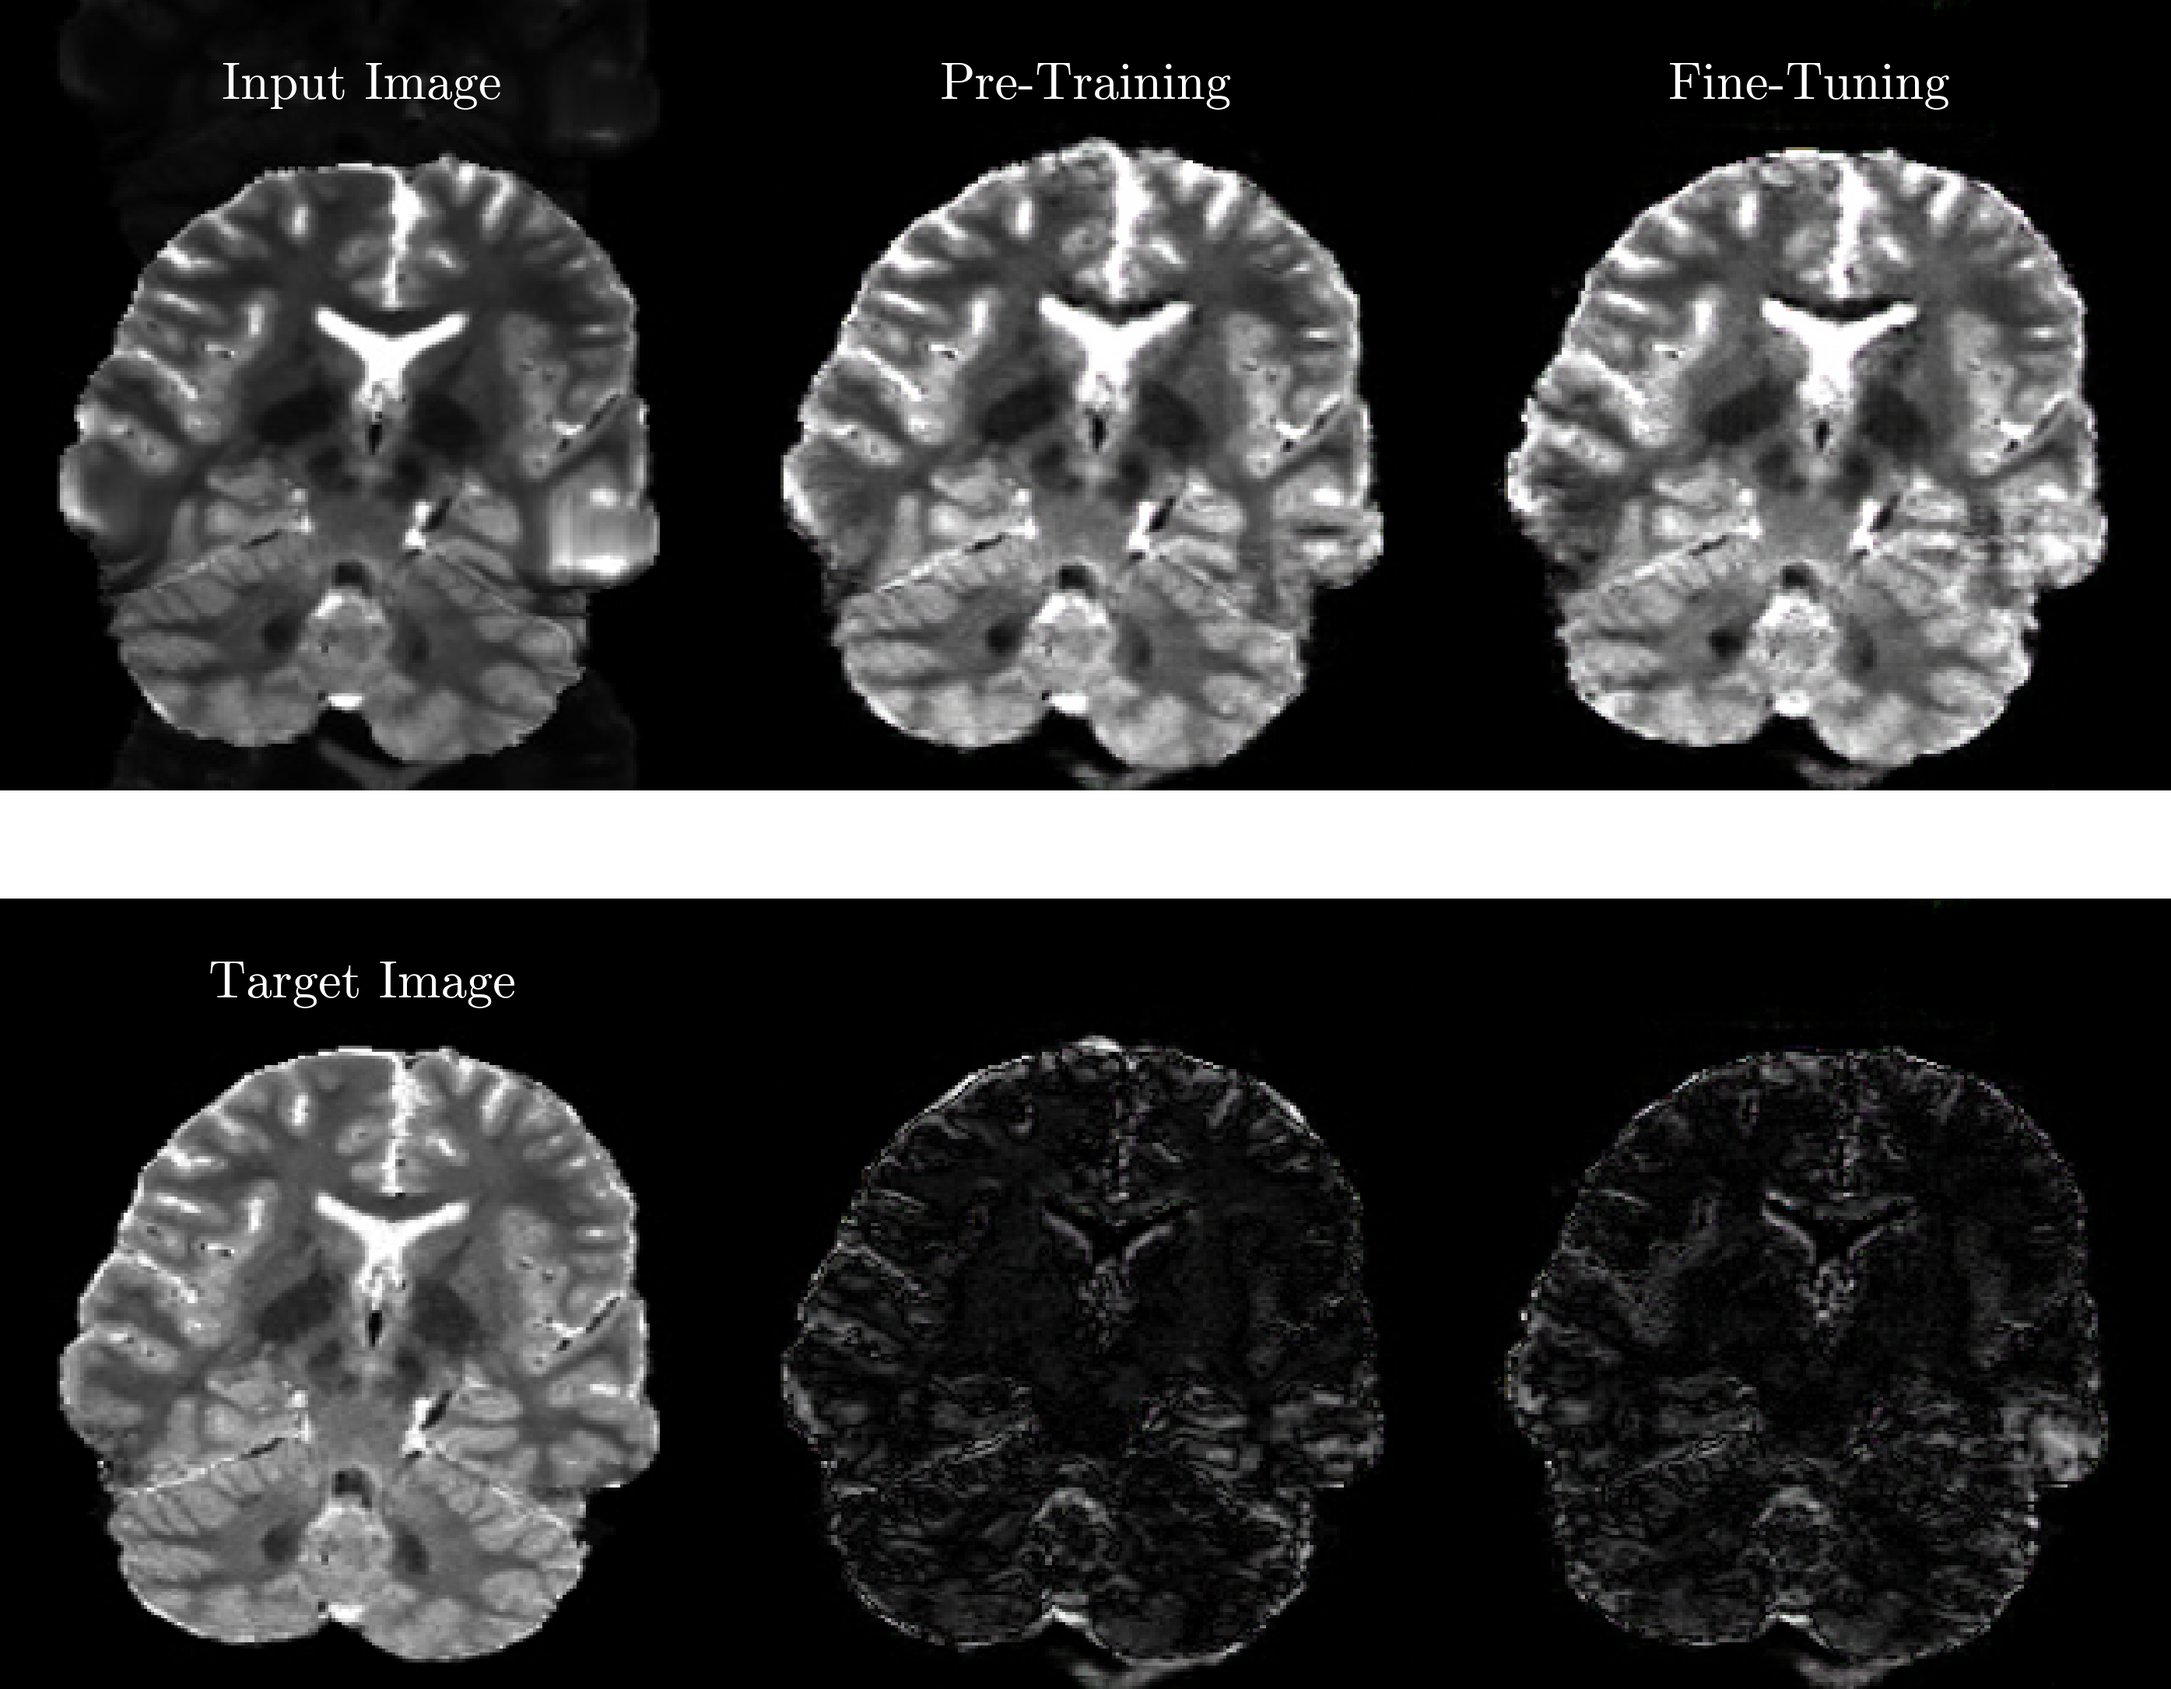
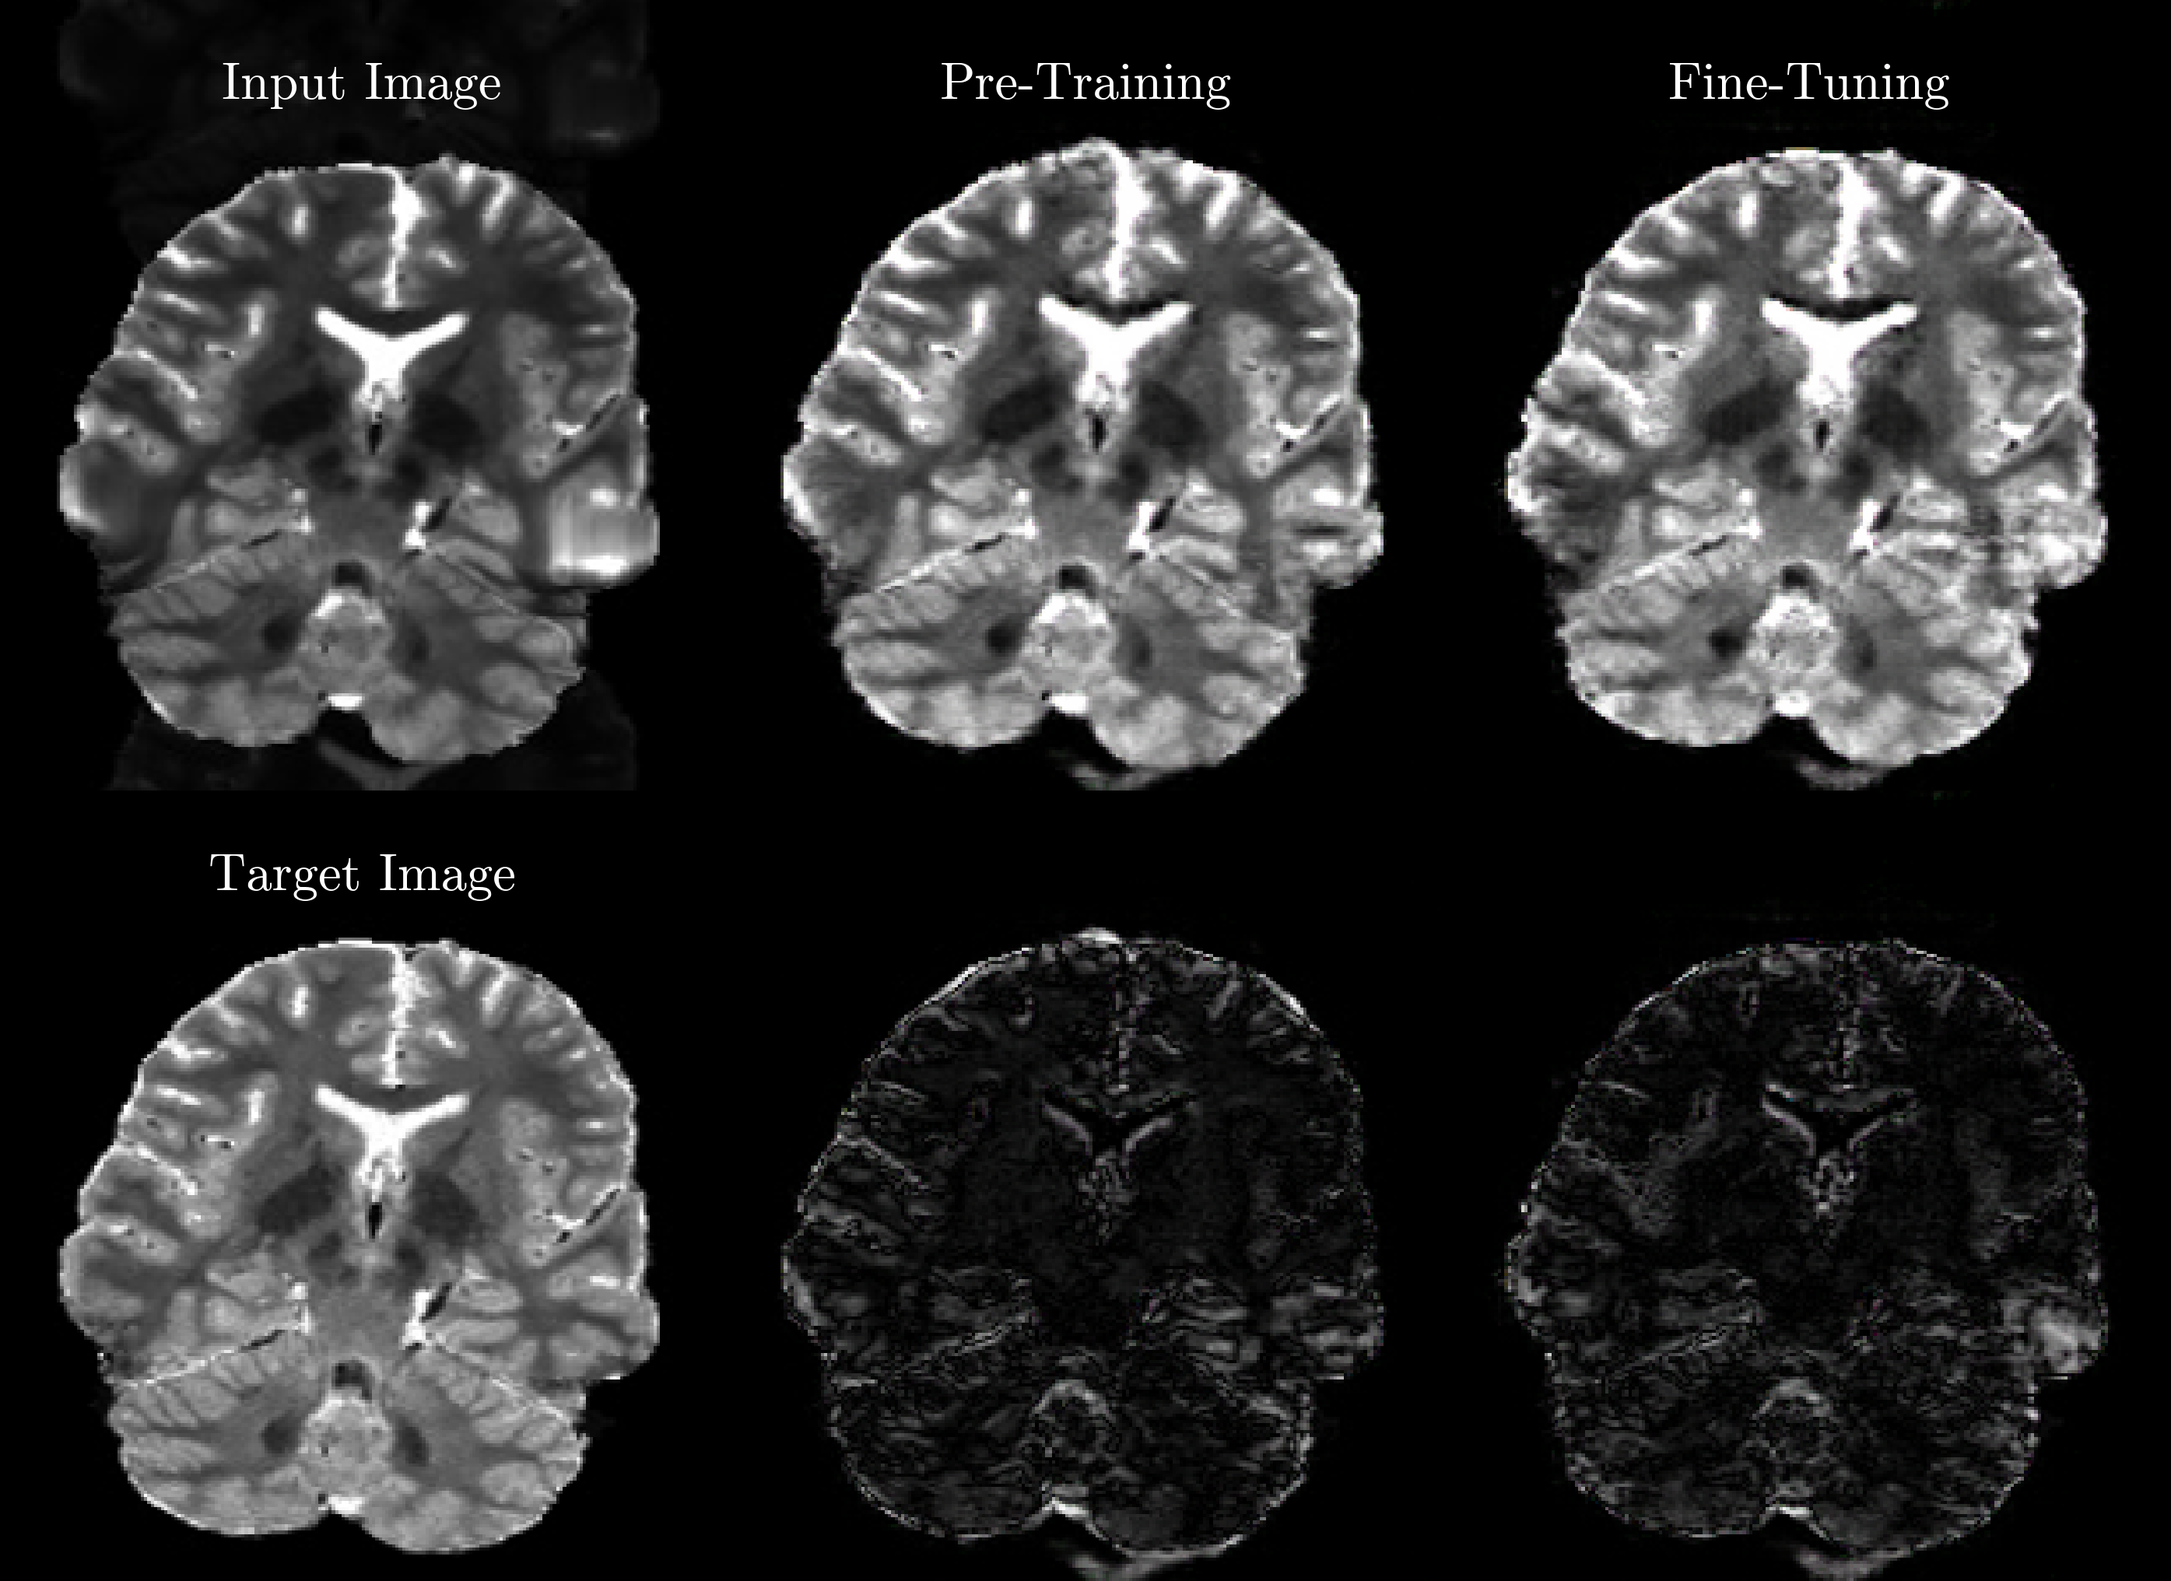
Fixed gap in figures.

diff --git a/util/figures.py b/util/figures.py
@@ -164,7 +164,7 @@ def create_overview_figure(run_names, run_path, image_num, save_name):
     plt.savefig('{}_exampleImg{}.png'.format(save_name, image_num), dpi=300, bbox_inches='tight',pad_inches=0)
 
 def create_overview_diff_figure(run_names, run_path, dir_num, image_num, save_name):
-    fig, axes = plt.subplots(2, len(run_names)+1, figsize=(4 * (len(run_names)+1), 10))
+    fig, axes = plt.subplots(2, len(run_names)+1, figsize=(4 * (len(run_names)+1), 8.8))
     fontsize = 16
     y_pos = 0.85
 
@@ -193,12 +193,6 @@ def create_overview_diff_figure(run_names, run_path, dir_num, image_num, save_na
         axes[0,(i+1)].axis('off')
         axes[1,(i+1)].imshow(abs(real_img[0:-20,20:-20]-fake_img[0:-20,20:-20]), cmap='gray', interpolation='none')
         axes[1,(i+1)].axis('off')
-
-    # add title for the entire figure and save it
-    if save_name.endswith("AtoB"):
-        fig.suptitle('Adding Artifacts', fontsize=22, y=0.93)
-    elif save_name.endswith("BtoA"):
-        fig.suptitle('Removing Artifacts', fontsize=22, y=0.93)
 
     fig.subplots_adjust(hspace=0, wspace=0)
     plt.savefig('{}_exampleImgDiff_{}_{}.png'.format(save_name, dir_num, image_num), dpi=300, bbox_inches='tight',pad_inches=0)    
